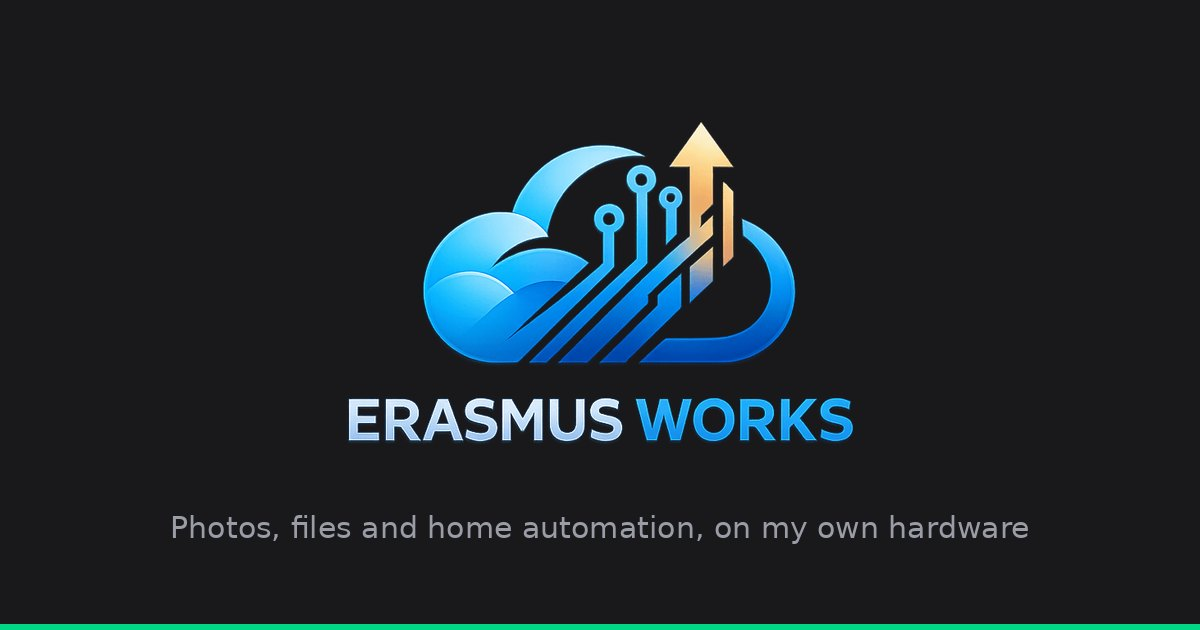
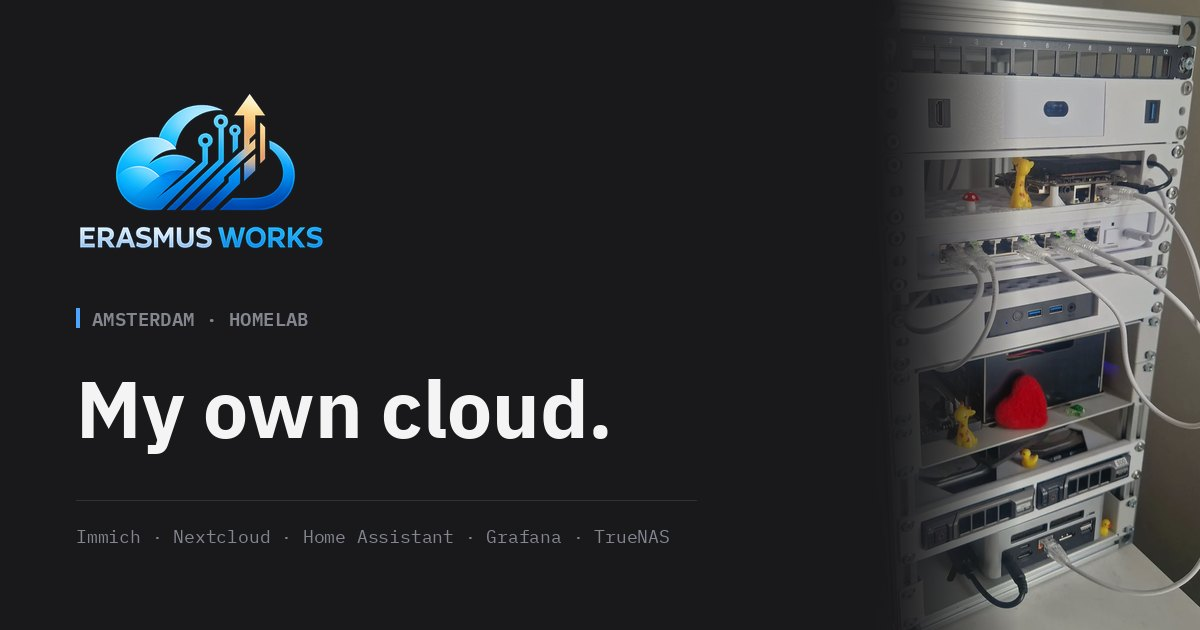
Improve page meta

diff --git a/kubernetes/apps/landing/index.html b/kubernetes/apps/landing/index.html
@@ -3,24 +3,24 @@
 <head>
 <meta charset="utf-8">
 <meta name="viewport" content="width=device-width, initial-scale=1">
-<meta name="description" content="Photos, files and home automation, self-hosted on my own hardware. A Kubernetes cluster in a 10-inch rack, 3D-printed mounts, every change in Git.">
+<meta name="description" content="A self-hosted cloud for photos, files, documents and home automation. Kubernetes in a 10-inch rack at home, 3D-printed mounts, every change in Git.">
 <meta name="robots" content="index, follow, max-image-preview:large, max-snippet:-1">
 <meta name="theme-color" content="#19191c">
 <link rel="canonical" href="https://erasmus.works/">
 <link rel="icon" type="image/png" href="/favicon.png">
-<title>My own cloud &middot; Open source, self-hosting, 3D printing</title>
+<title>Open source, self-hosting, 3D printing</title>
 
 <meta property="og:type" content="website">
 <meta property="og:site_name" content="Erasmus.works">
 <meta property="og:url" content="https://erasmus.works/">
 <meta property="og:locale" content="en_GB">
-<meta property="og:title" content="My own cloud &middot; Open source, self-hosting, 3D printing">
-<meta property="og:description" content="Photos, files and home automation, self-hosted on my own hardware. A Kubernetes cluster in a 10-inch rack, 3D-printed mounts, every change in Git.">
-<meta property="og:image" content="https://erasmus.works/og.jpg">
+<meta property="og:title" content="Open source, self-hosting, 3D printing">
+<meta property="og:description" content="A self-hosted cloud for photos, files, documents and home automation. Kubernetes in a 10-inch rack at home, 3D-printed mounts, every change in Git.">
+<meta property="og:image" content="https://erasmus.works/og.jpg?v=2">
 <meta property="og:image:type" content="image/jpeg">
 <meta property="og:image:width" content="1200">
 <meta property="og:image:height" content="630">
-<meta property="og:image:alt" content="The Erasmus Works logo on a dark background.">
+<meta property="og:image:alt" content="The Erasmus Works logo beside a photo of my 10-inch homelab rack.">
 <meta name="twitter:card" content="summary_large_image">
 
 <script type="application/ld+json">
@@ -29,7 +29,7 @@
   "@type": "WebSite",
   "name": "Erasmus.works",
   "url": "https://erasmus.works/",
-  "description": "Photos, files and home automation, self-hosted on my own hardware. A Kubernetes cluster in a 10-inch rack, 3D-printed mounts, every change in Git.",
+  "description": "A self-hosted cloud for photos, files, documents and home automation. Kubernetes in a 10-inch rack at home, 3D-printed mounts, every change in Git.",
   "inLanguage": "en",
   "author": {
     "@type": "Person",
